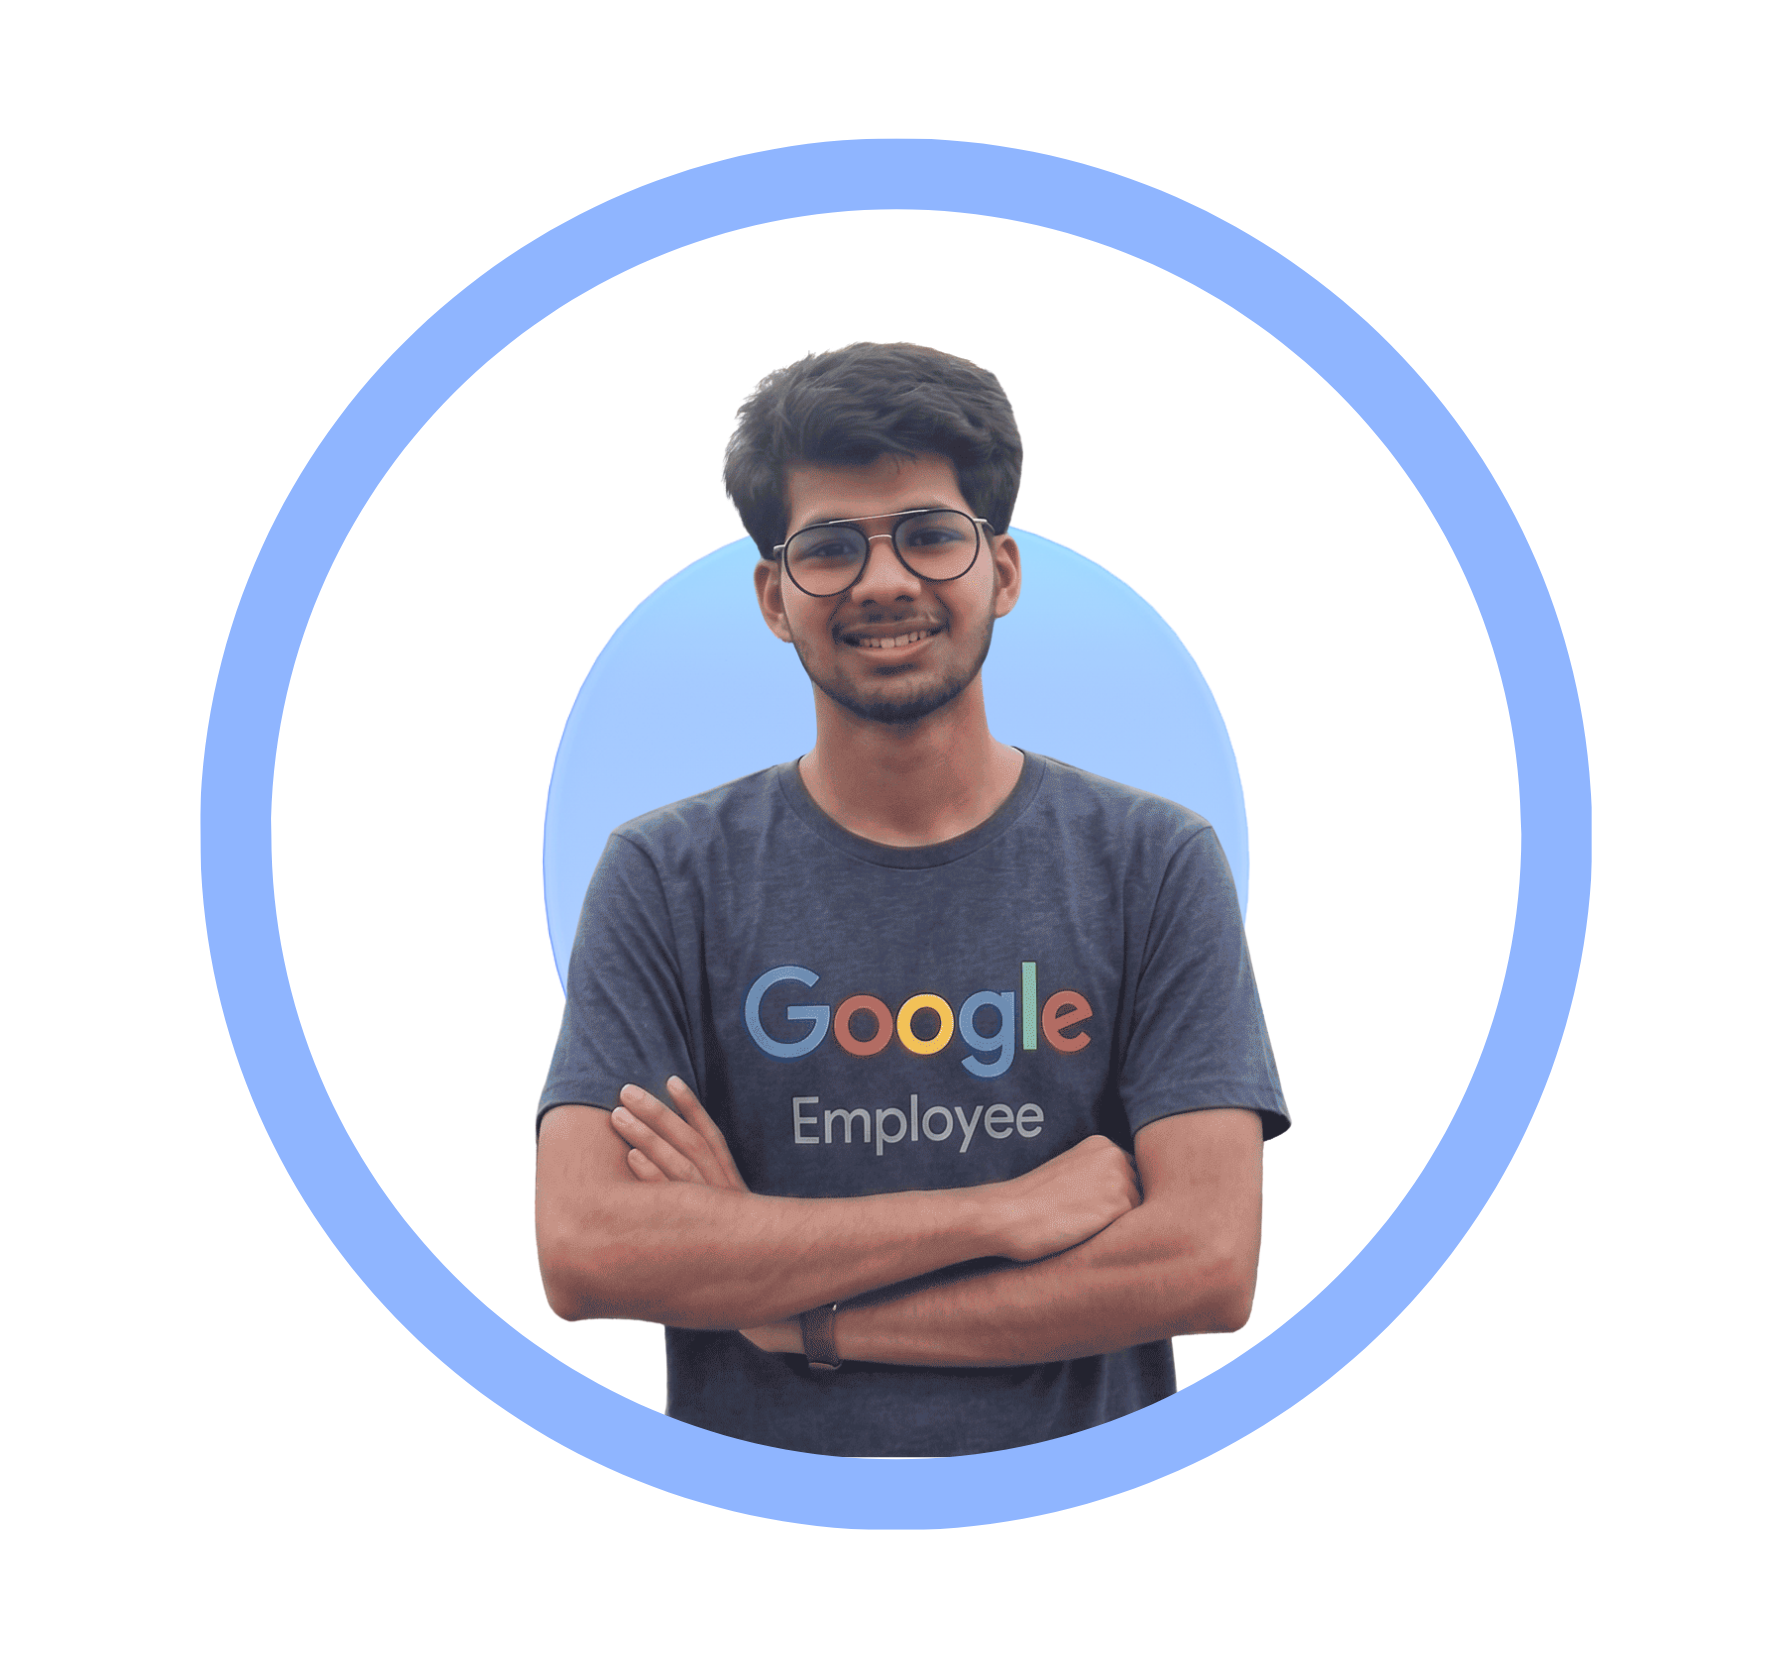
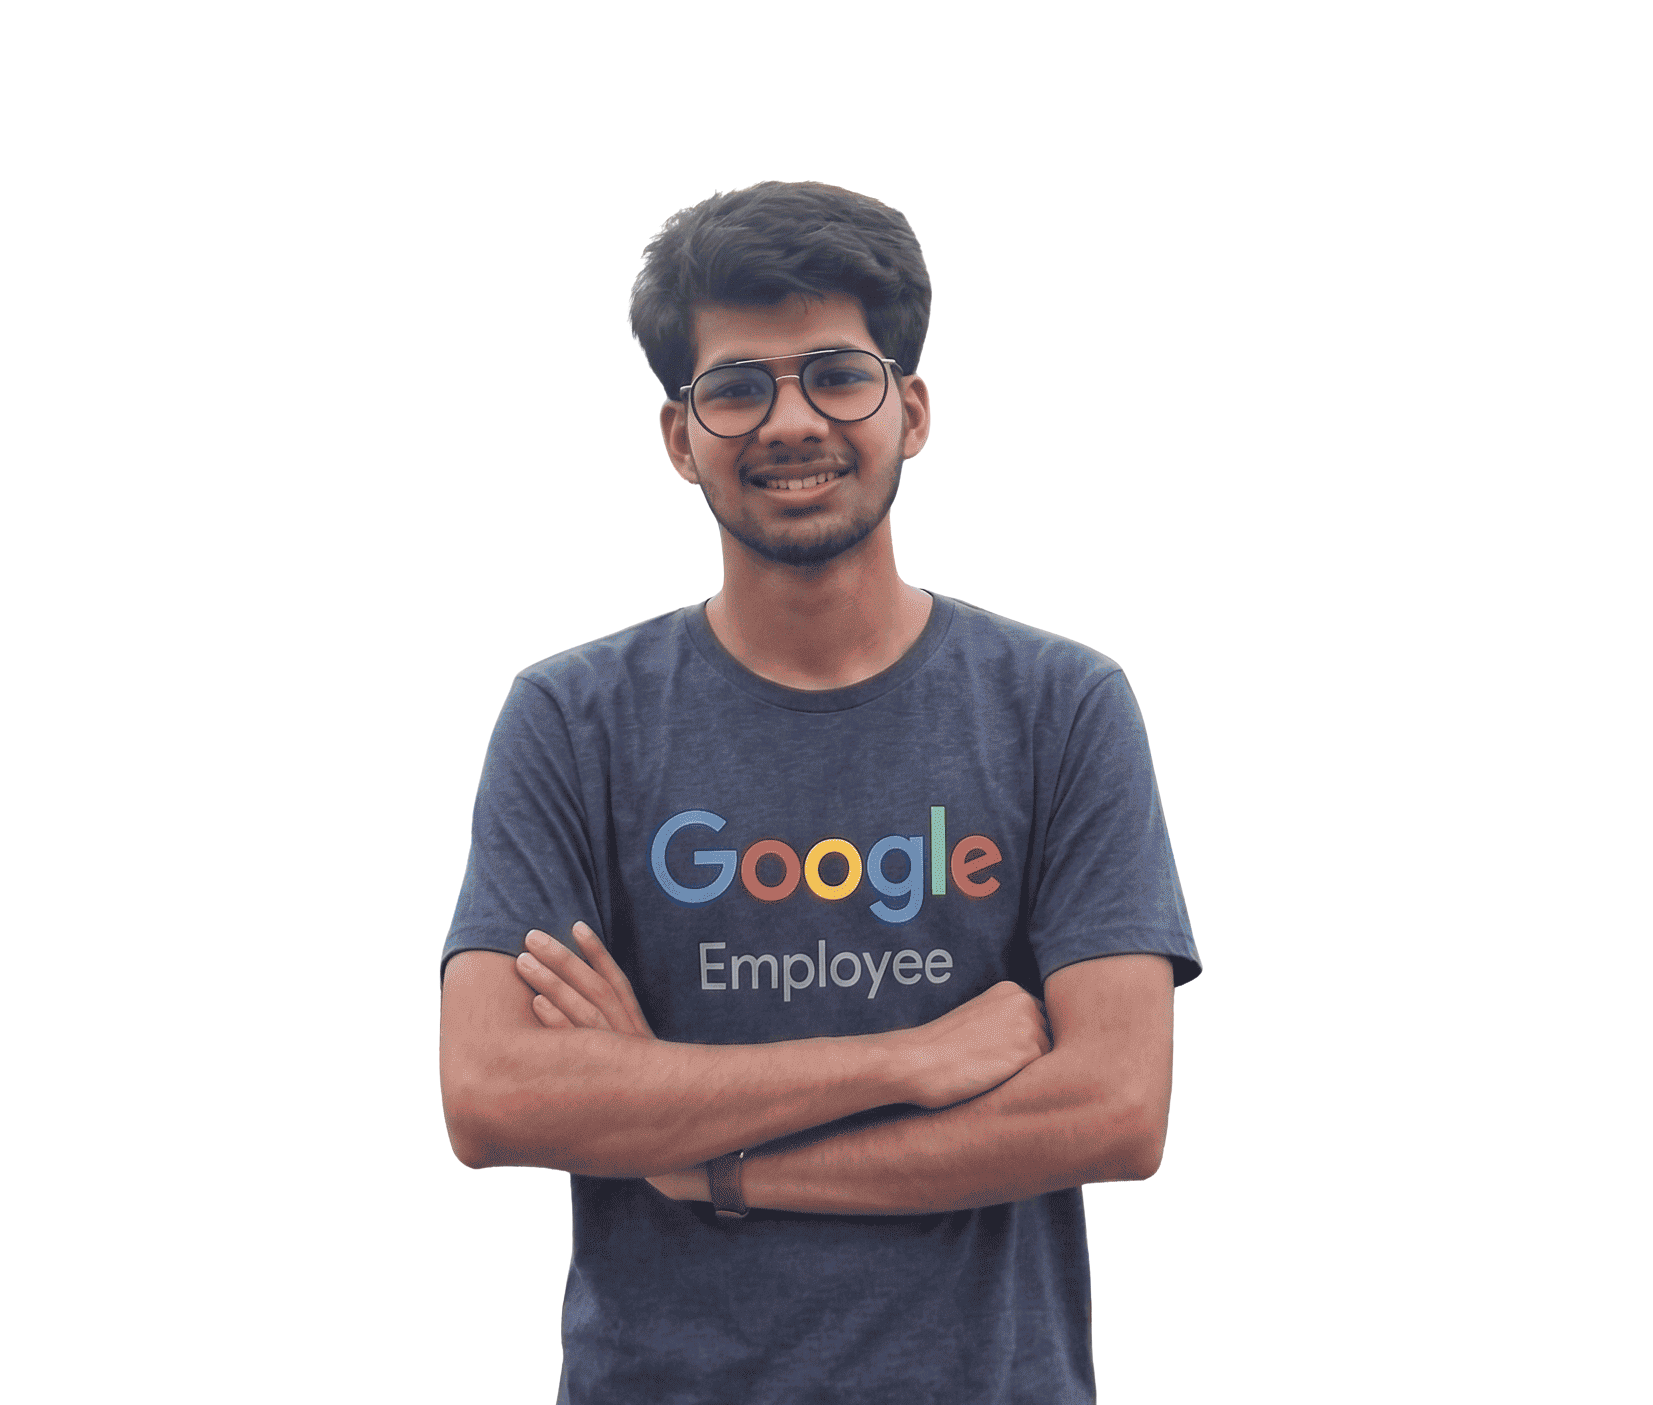
fix: photo of commettee has been added

Changed region(s): [[0.0926, 0.0612, 0.8947, 1.0]]

diff --git a/src/data/committee.ts b/src/data/committee.ts
@@ -39,7 +39,7 @@ export const committeeMembers: CommitteeMember[] = [
     nameBn: "ইব্রাহীম",
     roleEn: "Vice President",
     roleBn: "সহ-সভাপতি",
-    image: "/images/committee/ebi.jpeg",
+    image: "/images/committee/ebi.png",
   },
   {
     id: "shahin",
@@ -56,7 +56,7 @@ export const committeeMembers: CommitteeMember[] = [
     nameBn: "মোস্তাকিম",
     roleEn: "General Secretary",
     roleBn: "সাধারণ সম্পাদক",
-    image: "/images/committee/mustakim.jpeg",
+    image: "/images/committee/mustakim.png",
   },
   {
     id: "emon",
@@ -75,6 +75,22 @@ export const committeeMembers: CommitteeMember[] = [
     roleBn: "যুগ্ম সাধারণ সম্পাদক",
     image: "/images/committee/sourav.png",
     isKeyLeader: true,
+  },
+   {
+    id: "smoron",
+    nameEn: "Md. Sakhaowat Hossain",
+    nameBn: "মোঃ সাখাওয়াৎ হোসেন",
+    roleEn: "Organizing Secretary",
+    roleBn: "সাংগঠনিক সম্পাদক",
+    image: "/images/committee/smoron.png",
+  },
+  {
+    id: "sojol",
+    nameEn: "Lokman Hossain Sojol",
+    nameBn: "লোকমান হোসেন সজল",
+    roleEn: "Organizing Secretary",
+    roleBn: "সাংগঠনিক সম্পাদক",
+    image: "/images/committee/sojol.png",
   },
   {
     id: "jihad",
@@ -100,29 +116,14 @@ export const committeeMembers: CommitteeMember[] = [
     roleBn: "ক্রীড়া সম্পাদক",
     image: "/images/committee/labib.png",
   },
-  {
-    id: "smoron",
-    nameEn: "Md. Sakhaowat Hossain",
-    nameBn: "মোঃ সাখাওয়াৎ হোসেন",
-    roleEn: "Organizing Secretary",
-    roleBn: "সাংগঠনিক সম্পাদক",
-    image: "/images/committee/smoron.png",
-  },
-  {
-    id: "sojol",
-    nameEn: "Lokman Hossain Sojol",
-    nameBn: "লোকমান হোসেন সজল",
-    roleEn: "Organizing Secretary",
-    roleBn: "সাংগঠনিক সম্পাদক",
-    image: "/images/committee/sojol.png",
-  },
+ 
   {
     id: "himel",
     nameEn: "SH Himel Siam",
     nameBn: "এস এইচ হিমেল সিয়াম",
     roleEn: "ICT Secretary",
     roleBn: "তথ্য ও যোগাযোগ প্রযুক্তি সম্পাদক",
-    image: "/images/committee/himel.jpeg",
+    image: "/images/committee/himel.png",
     isKeyLeader: true,
   },
   {
@@ -139,6 +140,6 @@ export const committeeMembers: CommitteeMember[] = [
     nameBn: "ইমরান",
     roleEn: "Religious Affairs Secretary",
     roleBn: "ধর্ম বিষয়ক সম্পাদক",
-    image: "/images/committee/emran.jpeg",
+    image: "/images/committee/emran.png",
   },
 ];

diff --git a/src/components/layout/Footer.tsx b/src/components/layout/Footer.tsx
@@ -131,7 +131,7 @@ export default function Footer({
                 <div className="relative shrink-0">
                   <div className="h-12 w-12 sm:h-13 sm:w-13 rounded-xl overflow-hidden ring-2 ring-purple-200/90 shadow-xs bg-purple-50">
                     <Image
-                      src="/images/committee/sourav.png"
+                      src="/images/committee/sourav_footer.png"
                       alt="Sourav Prodhan"
                       width={56}
                       height={56}
